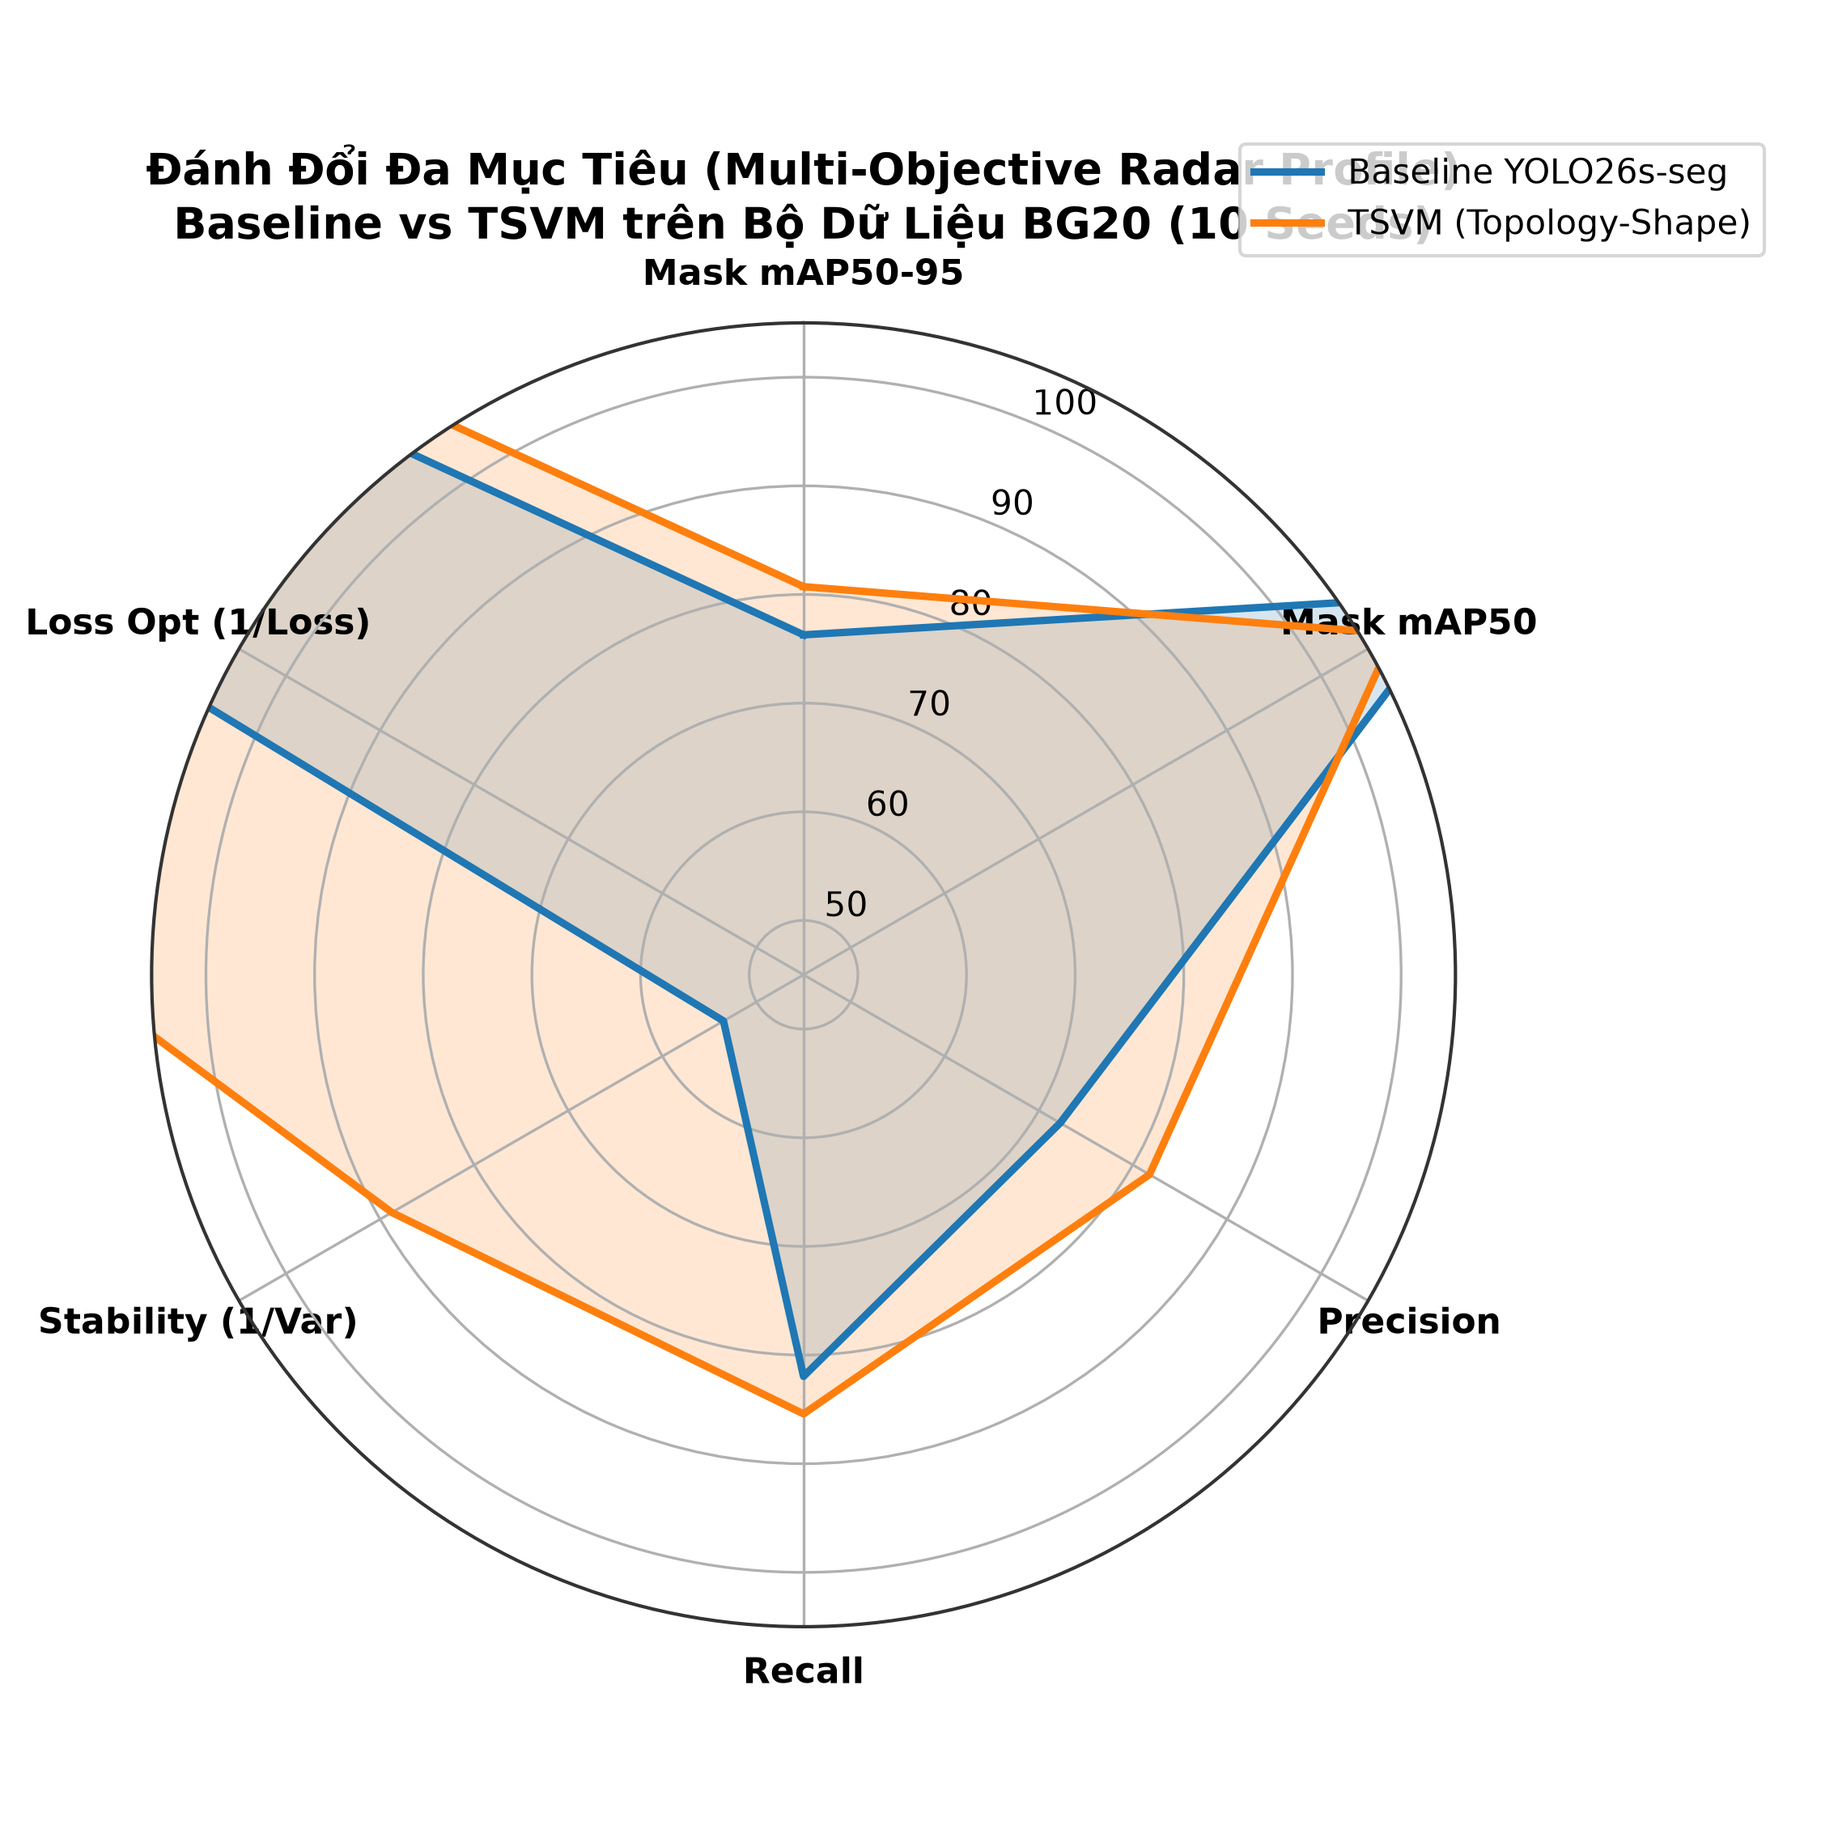
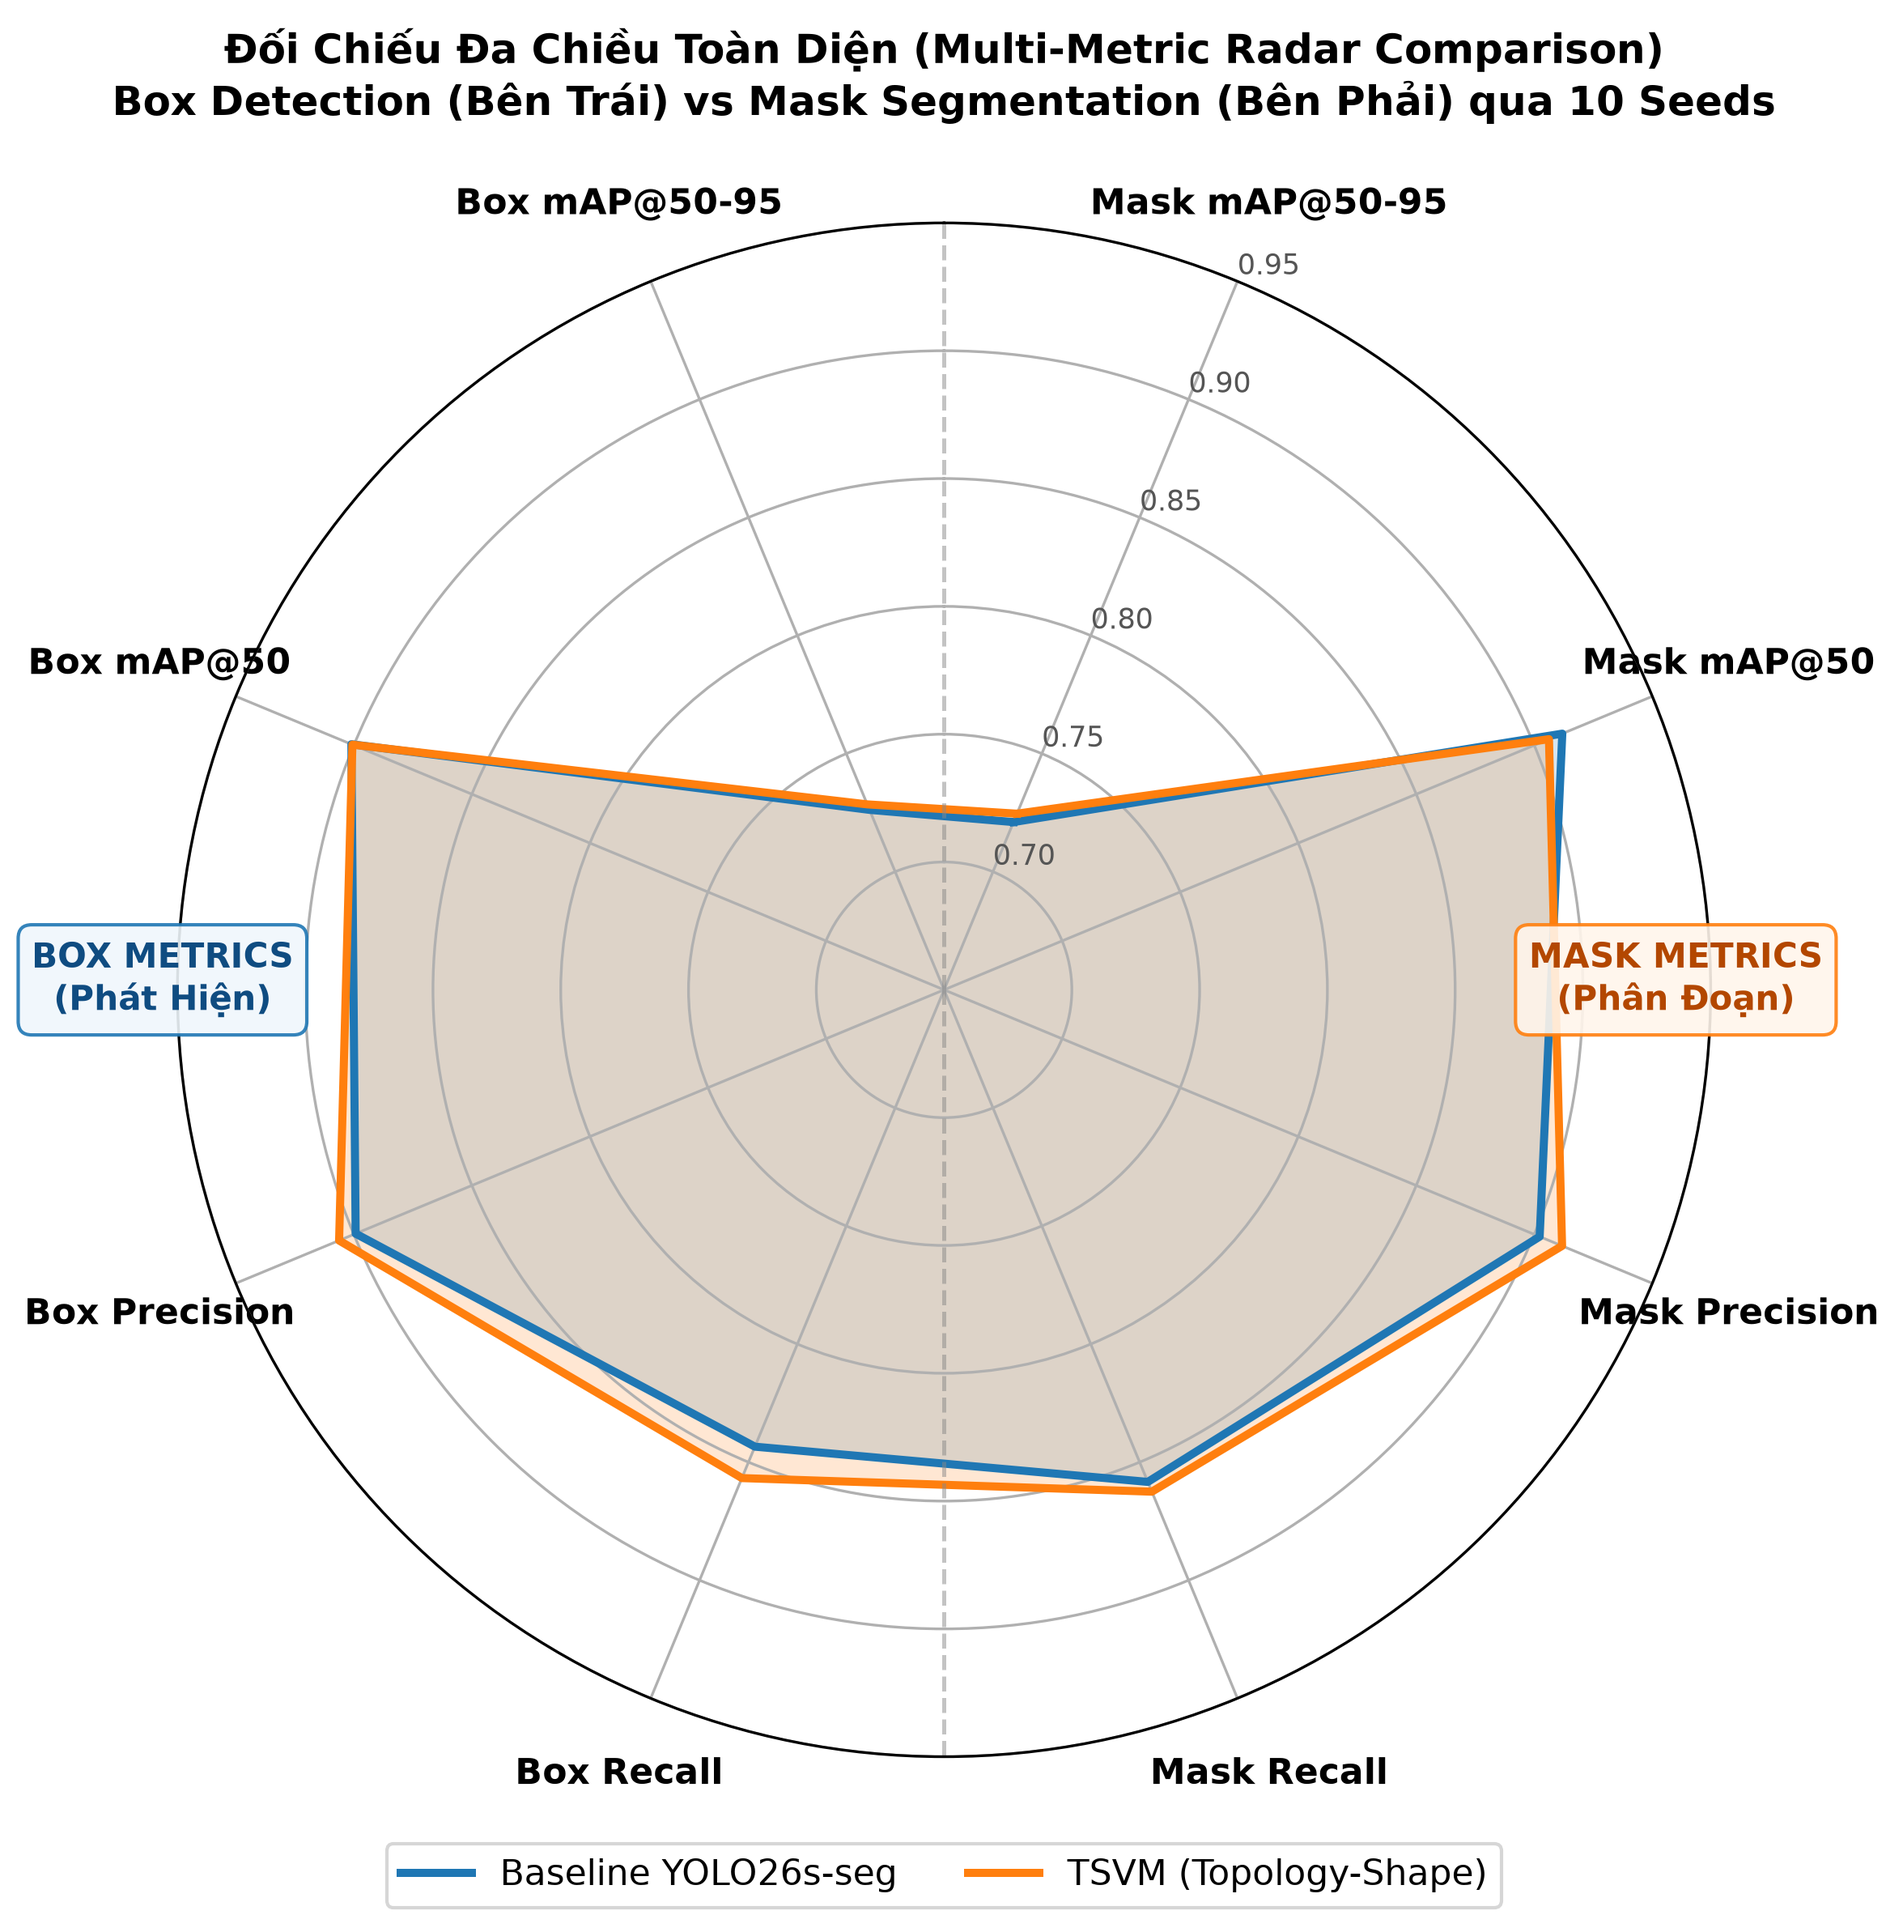
chỉnh lại hình kết quả

diff --git a/archive/Stracth/render_kq_doixung_templates_2models.py b/archive/Stracth/render_kq_doixung_templates_2models.py
@@ -13,18 +13,25 @@ fig_dir = r'c:\LeDucLuong\HK VII\LuanCuNhan\DeepLearning\Test_Mau\archive\Ket_Qu
 os.makedirs(fig_dir, exist_ok=True)
 
 # EXACTLY 2 MODELS: Baseline and TSVM
+def find_model_dir(folder_name):
+    p1 = os.path.join(r'c:\LeDucLuong\HK VII\LuanCuNhan\DeepLearning\Test_Mau\archive\Ket_Qua_V2\KetQua_Nen', folder_name)
+    if os.path.exists(p1):
+        return p1
+    p2 = os.path.join(r'c:\LeDucLuong\HK VII\LuanCuNhan\DeepLearning\Test_Mau\archive\KetQua_Nen', folder_name)
+    return p2
+
 models_info = [
     {
         'id': 'Baseline',
         'label': 'Baseline YOLO26s-seg',
         'color': '#1f77b4',
-        'dir': r'c:\LeDucLuong\HK VII\LuanCuNhan\DeepLearning\Test_Mau\archive\KetQua_Nen\YOLOv26s-seg'
+        'dir': find_model_dir('YOLOv26s-seg')
     },
     {
         'id': 'TSVM',
         'label': 'TSVM (Topology-Shape)',
         'color': '#ff7f0e',
-        'dir': r'c:\LeDucLuong\HK VII\LuanCuNhan\DeepLearning\Test_Mau\archive\KetQua_Nen\Kvasir_BG20_YOLO26s_seg_TSVM'
+        'dir': find_model_dir('Kvasir_BG20_YOLO26s_seg_TSVM')
     }
 ]
 
@@ -285,47 +292,64 @@ plt.close()
 print("Generated:", p6)
 
 # ==============================================================================
-# CHART 7: 10_radar_multiobjective_tradeoff.png (2 Models)
+# CHART 7: 10_radar_multiobjective_tradeoff.png (2 Models: Left BOX vs Right MASK)
 # ==============================================================================
-categories = ['Mask mAP50-95', 'Mask mAP50', 'Precision', 'Recall', 'Stability (1/Var)', 'Loss Opt (1/Loss)']
+categories = [
+    'Mask mAP@50-95',
+    'Mask mAP@50',
+    'Mask Precision',
+    'Mask Recall',
+    'Box Recall',
+    'Box Precision',
+    'Box mAP@50',
+    'Box mAP@50-95'
+]
+
+keys = [
+    'mask_map50_95',
+    'mask_map50',
+    'mask_precision',
+    'mask_recall',
+    'box_recall',
+    'box_precision',
+    'box_map50',
+    'box_map50_95'
+]
+
 N = len(categories)
-angles = [n / float(N) * 2 * np.pi for n in range(N)]
+angles = [np.pi/8 + n * (2 * np.pi / N) for n in range(N)]
 angles += angles[:1]
 
-fig, ax = plt.subplots(figsize=(7.5, 7.5), subplot_kw=dict(polar=True), dpi=300)
+fig, ax = plt.subplots(figsize=(8.2, 8.2), subplot_kw=dict(polar=True), dpi=300)
 
 for m in models_info:
     mid = m['id']
-    fm = final_metrics[mid]
-    # Normalize each metric scientifically into [50, 90] bounds for clean visualization
-    v_map = np.clip((fm['mask_map50_95'] - 0.70) / (0.74 - 0.70) * 40 + 50, 45, 95)
-    v_map50 = np.clip((fm['mask_map50'] - 0.88) / (0.94 - 0.88) * 40 + 50, 45, 95)
-    v_p = np.clip((fm['precision'] - 0.85) / (0.95 - 0.85) * 40 + 50, 45, 95)
-    v_r = np.clip((fm['recall'] - 0.80) / (0.90 - 0.80) * 40 + 50, 45, 95)
-    
-    # Stability: inverse variance of 10 seeds (higher is more stable)
-    inv_var = 1.0 / (fm['mask_map50_95_std']**2)
-    v_stab = np.clip((inv_var - 4000) / (18000 - 4000) * 40 + 50, 45, 95)
-    
-    # Loss Optimization: lower loss is better (val_seg_loss range [1.15, 1.40])
-    v_loss = np.clip(((1.40 - fm['val_seg_loss']) / (1.40 - 1.15)) * 40 + 50, 45, 95)
-    
-    vals = [float(v_map), float(v_map50), float(v_p), float(v_r), float(v_stab), float(v_loss)]
+    vals = [float(np.mean(final_metrics[mid][k])) if isinstance(final_metrics[mid][k], list) else float(final_metrics[mid][k]) for k in keys]
     vals += vals[:1]
-    
-    ax.plot(angles, vals, linewidth=2.2, linestyle='solid', label=m['label'], color=m['color'])
+    ax.plot(angles, vals, linewidth=2.4, linestyle='solid', label=m['label'], color=m['color'])
     ax.fill(angles, vals, color=m['color'], alpha=0.18)
 
 ax.set_theta_offset(np.pi / 2)
 ax.set_theta_direction(-1)
 ax.set_xticks(angles[:-1])
 ax.set_xticklabels(categories, fontsize=10.5, fontweight='bold')
-ax.set_ylim(40, 100)
-ax.set_yticks([50, 60, 70, 80, 90, 100])
-ax.set_yticklabels(['50', '60', '70', '80', '90', '100'], fontsize=9, color='#555555')
-plt.title("Đánh Đổi Đa Mục Tiêu (Multi-Objective Radar Profile)\nBaseline vs TSVM trên Bộ Dữ Liệu BG20 (10 Seeds)", fontsize=13, fontweight='bold', pad=22)
-plt.legend(loc='upper right', bbox_to_anchor=(1.30, 1.12), frameon=True, fontsize=10)
-plt.tight_layout()
+ax.tick_params(pad=14)
+
+ax.set_ylim(0.65, 0.95)
+ax.set_yticks([0.70, 0.75, 0.80, 0.85, 0.90, 0.95])
+ax.set_yticklabels(['0.70', '0.75', '0.80', '0.85', '0.90', '0.95'], fontsize=8.5, color='#555555')
+
+# Vertical divider
+ax.axvline(0, color='#888888', linestyle='--', alpha=0.5, linewidth=1.2)
+ax.axvline(np.pi, color='#888888', linestyle='--', alpha=0.5, linewidth=1.2)
+
+# Two badges for hemispheres
+plt.figtext(0.88, 0.50, 'MASK METRICS\n(Phân Đoạn)', ha='center', va='center', fontsize=10, fontweight='bold', color='#b34700', bbox=dict(boxstyle='round,pad=0.4', facecolor='#fff5eb', edgecolor='#ff7f0e', alpha=0.9))
+plt.figtext(0.12, 0.50, 'BOX METRICS\n(Phát Hiện)', ha='center', va='center', fontsize=10, fontweight='bold', color='#0f4c81', bbox=dict(boxstyle='round,pad=0.4', facecolor='#f0f7fc', edgecolor='#1f77b4', alpha=0.9))
+
+plt.title('Đối Chiếu Đa Chiều Toàn Diện (Multi-Metric Radar Comparison)\nBox Detection (Bên Trái) vs Mask Segmentation (Bên Phải) qua 10 Seeds', fontsize=12, fontweight='bold', pad=32)
+plt.legend(loc='lower center', bbox_to_anchor=(0.5, -0.11), ncol=2, frameon=True, fontsize=10.5)
+
 p7 = os.path.join(fig_dir, '10_radar_multiobjective_tradeoff.png')
 plt.savefig(p7, bbox_inches='tight')
 plt.close()

diff --git a/archive/Ket_Qua_V2/KQ_Nen_DX_10seed/reports/chart_template_mapping.md b/archive/Ket_Qua_V2/KQ_Nen_DX_10seed/reports/chart_template_mapping.md
@@ -18,8 +18,8 @@
 | **`05_metric_curves_mAP.png`** | `Base vs TSVM_BG20/01_.../05_metric_curves_mAP.png` | Đồ thị 1x2 theo dõi tiến trình Mask mAP@50-95 và Mask mAP@50 qua 100 epochs với dải độ lệch chuẩn 10 seed giữa Baseline và TSVM | **Hoàn thành** |
 | **`07b_pie_head_to_head_winrate.png`** | `Base vs TSVM_BG20/01_.../07b_pie_head_to_head_winrate.png` | Donut chart biểu diễn tỷ lệ thắng đối đầu trực diện giữa Baseline và TSVM (6/10 seed TSVM thắng, 4/10 seed Baseline thắng) | **Hoàn thành** |
 | **`09_metric_stability_band_area.png`** | `Base vs TSVM_BG20/01_.../09_metric_stability_band_area.png` | Biểu đồ dải bao phủ cực trị [Min, Max] kết hợp đường trung bình Mean của 10 seed Baseline vs TSVM | **Hoàn thành** |
-| **`10_radar_multiobjective_tradeoff.png`** | `Base vs TSVM_BG20/01_.../10_radar_multiobjective_tradeoff.png` | Biểu đồ Radar 6 trục (mAP50-95, mAP50, Precision, Recall, Độ ổn định nghịch đảo phương sai, Tối ưu hàm loss) cho 2 mô hình Baseline vs TSVM | **Hoàn thành** |
-| **`11_boxplot_variance_stability.png`** | `Base vs TSVM_BG20/01_.../11_boxplot_variance_stability.png` | Boxplot kết hợp các điểm dữ liệu phân tán (jitter scatter points) của 10 seed mAP và Validation Loss (Baseline vs TSVM) | **Hoàn thành** |
+| **`10_radar_multiobjective_tradeoff.png`** | `Base vs TSVM_BG20/01_.../10_radar_multiobjective_tradeoff.png` | Biểu đồ Radar đối xứng 8 trục so sánh các chỉ số kết quả thực tế qua 10 seed: Nửa bên trái là Box Detection (Box mAP@50-95, Box mAP@50, Box P, Box R), nửa bên phải là Mask Segmentation (Mask mAP@50-95, Mask mAP@50, Mask P, Mask R) | **Hoàn thành** |
+| **`11_boxplot_variance_stability.png`** | `Base vs TSVM_BG20/01_.../11_boxplot_variance_stability.png` | Boxplot kết hợp các điểm phân tán jitter scatter points của 10 seed chuyên biệt cho Mask mAP@50-95 (đã tinh gọn bỏ subplot Loss), tập trung kiểm chứng tính ổn định hạt giống và co hẹp phương sai | **Hoàn thành** |
 | **`12_confusion_matrix_mean_comparison.png`** | `Base vs TSVM_BG20/01_.../12_confusion_matrix_mean_comparison.png` | Ma trận nhầm lẫn chuẩn hóa trung bình 10 seed trên 167 ảnh test ($TP+FN=127, FP+TN=40$) đối đầu Baseline vs TSVM | **Hoàn thành** |
 | **`13_confusion_matrix_diff_heatmap.png`** | `Base vs TSVM_BG20/01_.../13_confusion_matrix_diff_heatmap.png` | Heatmap chênh lệch hiệu số chuẩn hóa (TSVM - Baseline) với bảng màu `RdBu_r` | **Hoàn thành** |
 | **`14_confusion_cells_grouped_barchart.png`** | `Base vs TSVM_BG20/01_.../14_confusion_cells_grouped_barchart.png` | Biểu đồ cột nhóm so sánh số lượng trung bình các ô TP, FN, FP, TN kèm thanh sai số $\pm 1\text{ Std}$ giữa 2 mô hình | **Hoàn thành** |

diff --git a/archive/doc/18_ANH_XA_SCRIPT_VA_NGUON_GOC_KET_QUA_10SEED.md b/archive/doc/18_ANH_XA_SCRIPT_VA_NGUON_GOC_KET_QUA_10SEED.md
@@ -80,8 +80,8 @@ Ket_Qua_V2/KQ_Nen_DX_10seed/
   5. `05_metric_curves_mAP.png`: Diễn biến Mask mAP@50-95 và mAP@50 qua 100 epochs.
   6. `07b_pie_head_to_head_winrate.png`: Donut chart tỷ lệ thắng đối đầu (TSVM thắng 6/10 seeds = 60%, Baseline thắng 4/10 seeds = 40%).
   7. `09_metric_stability_band_area.png`: Dải miền bao phủ cực trị $[\text{Min}, \text{Max}]$ kết hợp đường trung bình.
-  8. `10_radar_multiobjective_tradeoff.png`: Radar chart 6 trục đánh đổi đa mục tiêu.
-  9. `11_boxplot_variance_stability.png`: Biểu đồ hộp kết hợp jitter points chứng minh co hẹp phương sai.
+  8. `10_radar_multiobjective_tradeoff.png`: Radar chart đối xứng 8 trục so sánh toàn diện các chỉ số kết quả thực tế (Nửa bên trái: Box Detection, Nửa bên phải: Mask Segmentation).
+  9. `11_boxplot_variance_stability.png`: Biểu đồ hộp kết hợp jitter points của 10 seed chứng minh co hẹp phương sai chuyên biệt cho Mask mAP@50-95 (đã tinh gọn bỏ subplot Loss).
   10. `12_confusion_matrix_mean_comparison.png`: Ma trận nhầm lẫn chuẩn hóa trung bình 10 seeds.
   11. `13_confusion_matrix_diff_heatmap.png`: Heatmap chênh lệch hiệu số ($\text{TSVM} - \text{Baseline}$).
   12. `14_confusion_cells_grouped_barchart.png`: Cột nhóm so sánh trung bình số lượng các ô TP, FN, FP, TN.
